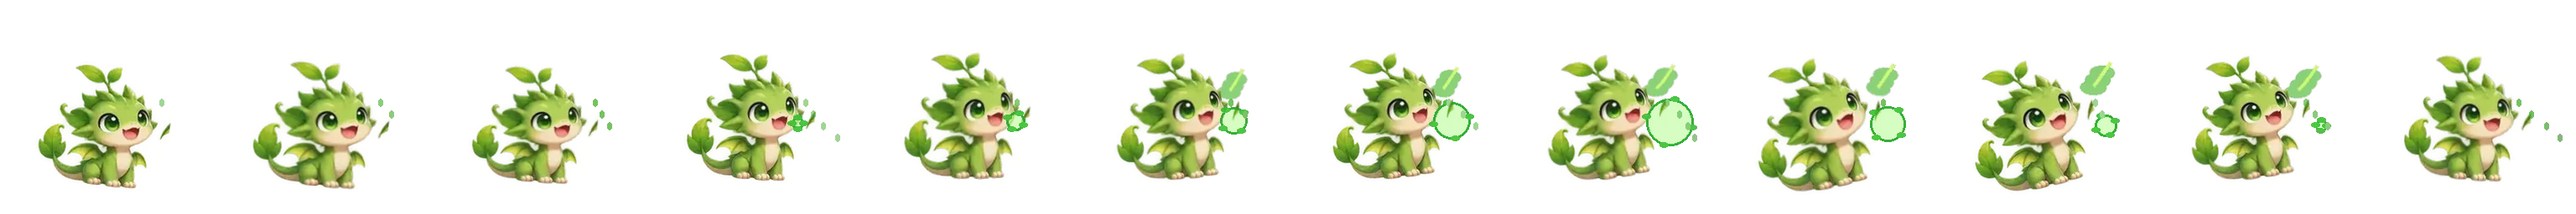
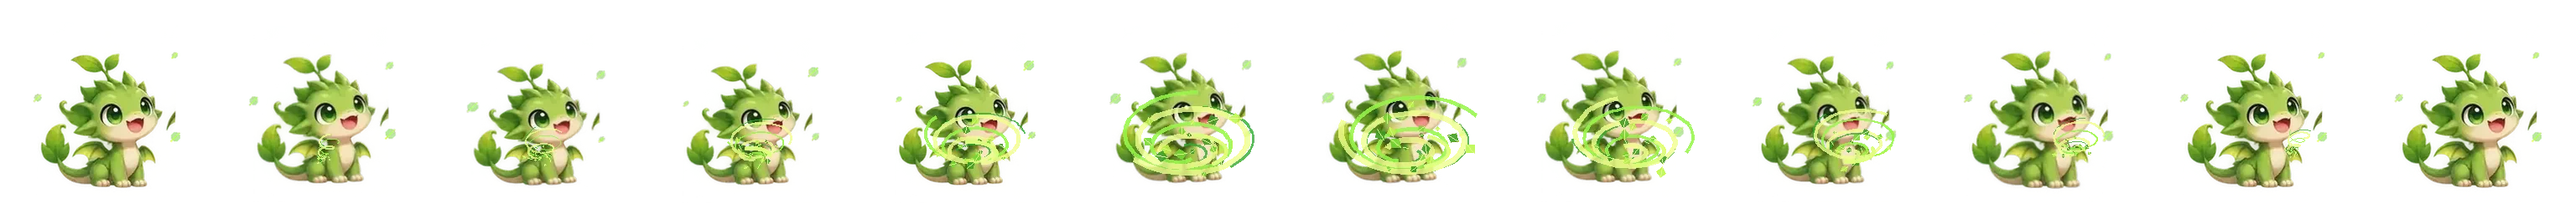
Hanja PWA v2.1.3.1 forest vortex animation

Changed region(s): [[0.0, 0.25, 1.0, 0.9062]]

diff --git a/sw.js b/sw.js
@@ -1,7 +1,9 @@
 // Each release has its own offline cache. Keep URLs relative for GitHub Pages project paths.
-const CACHE_VERSION='hanja-pwa-v2.1.3-1';
+const CACHE_VERSION='hanja-pwa-v2.1.3.1-forest-vortex';
 const PREFIX='hanja-pwa-';
-const CORE=["./","./index.html","./style.css?v=2.1.3","./adventure.js?v=2.1.0","./app.js?v=2.1.0","./writing.js?v=2.1.0","./dragons.js?v=2.1.3","./manifest.webmanifest","./data/hanja.json","./icons/icon-192.png","./icons/icon-512.png","./assets/forest.webp","./assets/fire.webp","./assets/water.webp","./assets/dragons/fire_1.webp","./assets/dragons/fire_2.webp","./assets/dragons/fire_3.webp","./assets/dragons/water_1.webp","./assets/dragons/water_2.webp","./assets/dragons/water_3.webp","./assets/dragons/forest_1.webp","./assets/dragons/forest_2.webp","./assets/dragons/forest_3.webp","./assets/monsters/slime.webp","./assets/monsters/sprout_imp.webp","./assets/monsters/mushroom.webp","./assets/monsters/stone_guardian.webp","./assets/monsters/crystal_bat.webp","./assets/monsters/storm_fox.webp","./assets/monsters/ancient_ent.webp","./assets/monsters/flame_wisp.webp","./assets/monsters/shadow_dragon.webp","./assets/effects/fire_1.webp","./assets/effects/fire_2.webp","./assets/effects/fire_3.webp","./assets/effects/fire_4.webp","./assets/effects/fire_5.webp","./assets/effects/water_1.webp","./assets/effects/water_2.webp","./assets/effects/water_3.webp","./assets/effects/water_4.webp","./assets/effects/water_5.webp","./assets/effects/forest_1.webp","./assets/effects/forest_2.webp","./assets/effects/forest_3.webp","./assets/effects/forest_4.webp","./assets/effects/forest_5.webp","./sprite-player.js?v=2.1.3","./assets/animations/dragons/fire_1_idle.webp","./assets/animations/dragons/fire_1_attack.webp","./assets/animations/dragons/fire_1_victory.webp","./assets/animations/dragons/water_1_idle.webp","./assets/animations/dragons/water_1_attack.webp","./assets/animations/dragons/water_1_victory.webp","./assets/animations/dragons/forest_1_idle.webp","./assets/animations/dragons/forest_1_attack.webp","./assets/animations/dragons/forest_1_victory.webp"];
+const CORE=["./","./index.html","./style.css?v=2.1.3","./adventure.js?v=2.1.0","./app.js?v=2.1.0","./writing.js?v=2.1.0","./dragons.js?v=2.1.3.1","./manifest.webmanifest","./data/hanja.json","./icons/icon-192.png","./icons/icon-512.png","./assets/forest.webp","./assets/fire.webp","./assets/water.webp","./assets/dragons/fire_1.webp","./assets/dragons/fire_2.webp","./assets/dragons/fire_3.webp","./assets/dragons/water_1.webp","./assets/dragons/water_2.webp","./assets/dragons/water_3.webp","./assets/dragons/forest_1.webp","./assets/dragons/forest_2.webp","./assets/dragons/forest_3.webp","./assets/monsters/slime.webp","./assets/monsters/sprout_imp.webp","./assets/monsters/mushroom.webp","./assets/monsters/stone_guardian.webp","./assets/monsters/crystal_bat.webp","./assets/monsters/storm_fox.webp","./assets/monsters/ancient_ent.webp","./assets/monsters/flame_wisp.webp","./assets/monsters/shadow_dragon.webp","./assets/effects/fire_1.webp","./assets/effects/fire_2.webp","./assets/effects/fire_3.webp","./assets/effects/fire_4.webp","./assets/effects/fire_5.webp","./assets/effects/water_1.webp","./assets/effects/water_2.webp","./assets/effects/water_3.webp","./assets/effects/water_4.webp","./assets/effects/water_5.webp","./assets/effects/forest_1.webp","./assets/effects/forest_2.webp","./assets/effects/forest_3.webp","./assets/effects/forest_4.webp","./assets/effects/forest_5.webp","./sprite-player.js?v=2.1.3","./assets/animations/dragons/fire_1_idle.webp","./assets/animations/dragons/fire_1_attack.webp","./assets/animations/dragons/fire_1_victory.webp","./assets/animations/dragons/water_1_idle.webp","./assets/animations/dragons/water_1_attack.webp","./assets/animations/dragons/water_1_victory.webp","./assets/animations/dragons/forest_1_idle.webp","./assets/animations/dragons/forest_1_attack.webp","./assets/animations/dragons/forest_1_victory.webp",
+  './assets/animations/effects/forest_vortex.webp'
+];
 const STROKE_CORE=["./vendor/hanzi-writer.min.js","./strokes/一.json","./strokes/二.json","./strokes/三.json","./strokes/四.json","./strokes/五.json","./strokes/六.json","./strokes/七.json","./strokes/八.json","./strokes/九.json","./strokes/十.json","./strokes/山.json","./strokes/水.json","./strokes/火.json","./strokes/木.json","./strokes/金.json","./strokes/土.json","./strokes/日.json","./strokes/月.json","./strokes/年.json","./strokes/東.json","./strokes/西.json","./strokes/南.json","./strokes/北.json","./strokes/中.json","./strokes/白.json","./strokes/靑.json","./strokes/人.json","./strokes/大.json","./strokes/小.json","./strokes/女.json","./strokes/父.json","./strokes/母.json","./strokes/兄.json","./strokes/弟.json","./strokes/生.json","./strokes/校.json","./strokes/先.json","./strokes/學.json","./strokes/國.json","./strokes/軍.json","./strokes/民.json","./strokes/韓.json","./strokes/門.json","./strokes/室.json","./strokes/王.json","./strokes/外.json","./strokes/長.json","./strokes/寸.json","./strokes/萬.json","./strokes/家.json","./strokes/間.json","./strokes/江.json","./strokes/車.json","./strokes/工.json","./strokes/空.json","./strokes/氣.json","./strokes/記.json","./strokes/男.json","./strokes/內.json","./strokes/農.json","./strokes/答.json","./strokes/道.json","./strokes/動.json","./strokes/力.json","./strokes/立.json","./strokes/每.json","./strokes/名.json","./strokes/物.json","./strokes/方.json","./strokes/不.json","./strokes/事.json","./strokes/上.json","./strokes/姓.json","./strokes/世.json","./strokes/手.json","./strokes/時.json","./strokes/市.json","./strokes/食.json","./strokes/安.json","./strokes/午.json","./strokes/右.json","./strokes/子.json","./strokes/自.json","./strokes/場.json","./strokes/電.json","./strokes/前.json","./strokes/全.json","./strokes/正.json","./strokes/足.json","./strokes/左.json","./strokes/直.json","./strokes/平.json","./strokes/下.json","./strokes/漢.json","./strokes/海.json","./strokes/話.json","./strokes/活.json","./strokes/孝.json","./strokes/後.json","./strokes/歌.json","./strokes/口.json","./strokes/旗.json","./strokes/同.json","./strokes/洞.json","./strokes/冬.json","./strokes/登.json","./strokes/來.json","./strokes/老.json","./strokes/里.json","./strokes/林.json","./strokes/面.json","./strokes/命.json","./strokes/文.json","./strokes/問.json","./strokes/百.json","./strokes/夫.json","./strokes/算.json","./strokes/色.json","./strokes/夕.json","./strokes/少.json","./strokes/所.json","./strokes/數.json","./strokes/植.json","./strokes/心.json","./strokes/語.json","./strokes/然.json","./strokes/有.json","./strokes/育.json","./strokes/邑.json","./strokes/入.json","./strokes/字.json","./strokes/祖.json","./strokes/住.json","./strokes/主.json","./strokes/重.json","./strokes/紙.json","./strokes/地.json","./strokes/千.json","./strokes/天.json","./strokes/川.json","./strokes/草.json","./strokes/村.json","./strokes/秋.json","./strokes/春.json","./strokes/出.json","./strokes/便.json","./strokes/夏.json","./strokes/花.json","./strokes/休.json"]; // Written by scripts/bundle_strokes.sh when stroke-order assets are installed.
 self.addEventListener('install', event=>event.waitUntil(caches.open(CACHE_VERSION).then(cache=>cache.addAll(CORE.concat(STROKE_CORE))).then(()=>self.skipWaiting())));
 self.addEventListener('activate', event=>event.waitUntil(Promise.all([

diff --git a/index.html b/index.html
@@ -11,17 +11,17 @@
   <link rel="icon" href="./icons/icon-192.png">
   <link rel="apple-touch-icon" href="./icons/icon-192.png">
   <link rel="stylesheet" href="./style.css?v=2.1.3">
-  <title>한자 탐험대 · PWA v2.1.3</title>
+  <title>한자 탐험대 · PWA v2.1.3.1</title>
   <script defer src="./writing.js?v=2.1.0"></script>
   <script defer src="./sprite-player.js?v=2.1.3"></script>
-  <script defer src="./dragons.js?v=2.1.3"></script>
+  <script defer src="./dragons.js?v=2.1.3.1"></script>
   <script defer src="./adventure.js?v=2.1.0"></script>
   <script defer src="./app.js?v=2.1.0"></script>
 </head>
 <body>
   <main class="shell">
     <header class="hero">
-      <div class="hero-title"><span class="eyebrow">드래곤 가디언즈 · PWA v2.1.3</span><h1>한자 탐험대</h1><p>배우고, 맞히고, 기억하는 한자 모험!</p></div>
+      <div class="hero-title"><span class="eyebrow">드래곤 가디언즈 · PWA v2.1.3.1</span><h1>한자 탐험대</h1><p>배우고, 맞히고, 기억하는 한자 모험!</p></div>
       <img src="./assets/forest.webp" alt="숲의 아기 드래곤 그루" width="140" height="140">
     </header>
     <div class="status-strip" aria-live="polite"><span id="save-status" role="status">기록 확인 중…</span><span id="offline-status">기록은 휴대전화에 자동 저장돼요</span></div>
@@ -45,7 +45,7 @@
       <input id="import-file" type="file" accept="application/json,.json" hidden>
       <p class="note">v2.0.0 PWA 백업과 기존 Streamlit JSON 기록 가져오기를 지원합니다. 복원 전에 현재 기록을 백업해 두세요.</p>
     </section>
-    <footer>한자 탐험대 v2.1.3 · 개인 학습용<br>홈·배우기·퀴즈·복습·쓰기·모험 지도·드래곤·카드·기록 · 자동 저장 · 오프라인</footer>
+    <footer>한자 탐험대 v2.1.3.1 · 개인 학습용<br>홈·배우기·퀴즈·복습·쓰기·모험 지도·드래곤·카드·기록 · 자동 저장 · 오프라인</footer>
   </main>
 </body>
 </html>

diff --git a/dragons.js b/dragons.js
@@ -281,7 +281,7 @@ function openAttackDialog({correct,used,skill,enemy,remainingHP,answer,points=25
       <div class="attack-title">${htmlEscape(d.name)} · ${htmlEscape(move)}!</div>
       <div class="figures"><div class="unit attack-dragon"><img src="${dragonArt(used,stage)}" ${spriteAttrs(used,stage,'attack')} alt="${d.name}"><span>${d.name}</span></div>
         <div class="unit enemy-hit"><img src="${monsterArt(enemy)}" alt="${m.name}"><span class="enemy-name">${htmlEscape(m.name)}</span><span class="enemy-hp">HP ${remainingHP}/100</span></div></div>
-      ${correct?`<img class="projectile" src="${effectArt(used,skill)}" alt="기술 ${htmlEscape(move)}가 몬스터에게 날아갑니다">
+      ${correct?`<img class="projectile" src="${used==='forest'?'./assets/animations/effects/forest_vortex.webp':effectArt(used,skill)}" alt="기술 ${htmlEscape(move)}가 몬스터에게 날아갑니다">
         <div class="attack-impact" aria-hidden="true"><div class="impact-ring"></div><div class="impact-ring second"></div>${particles}</div>
         <div class="attack-damage" aria-hidden="true">-25</div>`:''}
     </div>
